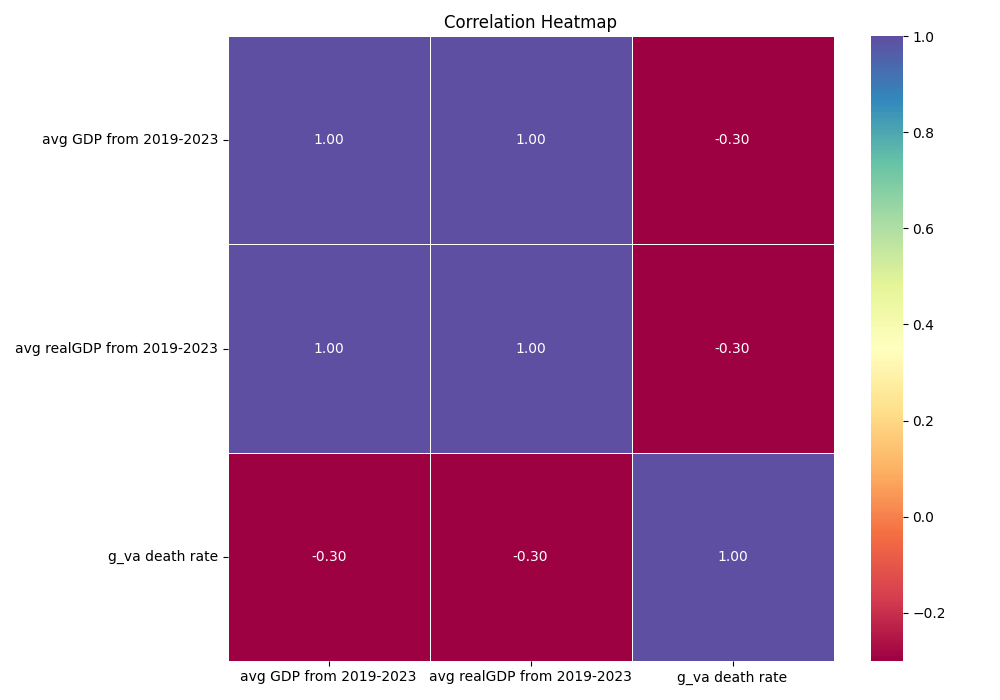
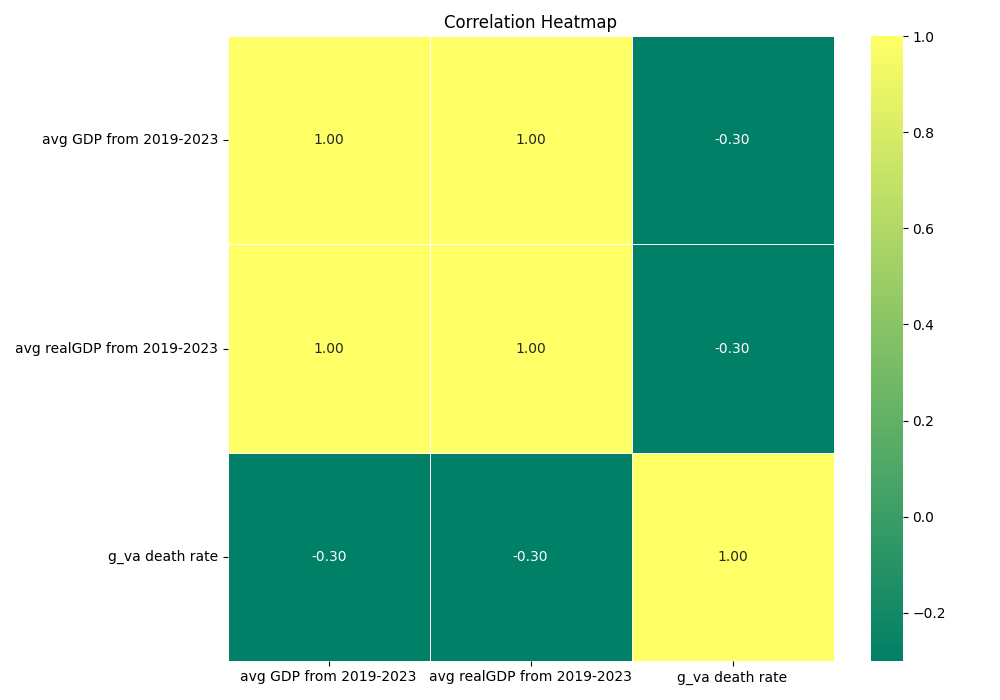
more ml more plots

diff --git a/ml_methods/ml_attempt.py b/ml_methods/ml_attempt.py
@@ -4,6 +4,9 @@ import pandas as pd
 from sklearn.model_selection import train_test_split
 import matplotlib.pyplot as plt
 import numpy as np
+from sklearn.metrics import r2_score, mean_absolute_error
+from sklearn.model_selection import cross_val_score
+from sklearn.model_selection import GridSearchCV
 
 df = pd.read_csv('eda/final_df.csv')
 
@@ -12,12 +15,19 @@ pd.set_option('display.max_columns', None)
 
 # print(df.head())
 
+
 def get_importance(df, model, color='purple'):
+
     X = df.drop(['g_va death rate'], axis=1)
-    y = df[['g_va death rate']]
+    y = df['g_va death rate']
+
 
     column_names_list = df.columns.tolist()
     column_names_list.pop()
+
+    scores = cross_val_score(model, X, y, cv=5, scoring='r2')
+    print(f"Mean r^2 score accross 5 folds for {model}: {np.mean(scores):.3f}")
+    print(f"All fold scores for {model}: {scores}\n")
 
     model.fit(X, y)
 
@@ -25,6 +35,8 @@ def get_importance(df, model, color='purple'):
 
     for i, v in enumerate(importance):
         print(f'{column_names_list[i]}, Score: {v:.5f}')
+    
+
     plt.bar([x for x in range(len(importance))], importance, color=color)
     plt.xticks([x for x in range(len(importance))], column_names_list, rotation=45, ha='right')
     plt.title(str(model) + ' Feature Importance')
@@ -33,29 +45,46 @@ def get_importance(df, model, color='purple'):
     plt.tight_layout()
     plt.show()
 
-get_importance(df, DecisionTreeRegressor())
-get_importance(df, RandomForestRegressor(), color='teal')
+get_importance(df, DecisionTreeRegressor(random_state=42))
+get_importance(df, RandomForestRegressor(random_state=42), color='teal')
+get_importance(df, GradientBoostingRegressor(random_state=42), color='pink')
 
 '''
-Decision Tree
+Mean r^2 score accross 5 folds for DecisionTreeRegressor(random_state=42): 0.236
+All fold scores for DecisionTreeRegressor(random_state=42): [ 0.23092503  0.77619647  0.7652932   0.29895134 -0.89273118]
 
-Fams Below Pov %, Score: 0.03006
-Ppl (<150% Of Pov) %, Score: 0.04787
-Ppl (Below Poverty) %, Score: 0.00034
-% At Least Bachelor's Degree, Score: 0.47104
-Median Fam Income (Scaled), Score: 0.02941
-Median Household Income (Scaled), Score: 0.20511
-Vast Majority Income (Scaled), Score: 0.00161
-Language Isolation %, Score: 0.21456
+Fams Below Pov %, Score: 0.07457
+Ppl (<150% Of Pov) %, Score: 0.00374
+Ppl (Below Poverty) %, Score: 0.04395
+% At Least Bachelor's Degree, Score: 0.47181
+Median Fam Income (Scaled), Score: 0.02827
+Median Household Income (Scaled), Score: 0.16602
+Vast Majority Income (Scaled), Score: 0.00103
+Language Isolation %, Score: 0.21060
 
-Random Forest
 
-Fams Below Pov %, Score: 0.05227
-Ppl (<150% Of Pov) %, Score: 0.02943
-Ppl (Below Poverty) %, Score: 0.02996
-% At Least Bachelor's Degree, Score: 0.32617
-Median Fam Income (Scaled), Score: 0.15243
-Median Household Income (Scaled), Score: 0.12030
-Vast Majority Income (Scaled), Score: 0.13241
-Language Isolation %, Score: 0.15703
+Mean r^2 score accross 5 folds for RandomForestRegressor(random_state=42): 0.491
+All fold scores for RandomForestRegressor(random_state=42): [ 0.4201826   0.64573927  0.7237883   0.69102035 -0.02674616]
+
+Fams Below Pov %, Score: 0.05428
+Ppl (<150% Of Pov) %, Score: 0.03473
+Ppl (Below Poverty) %, Score: 0.03383
+% At Least Bachelor's Degree, Score: 0.30526
+Median Fam Income (Scaled), Score: 0.18209
+Median Household Income (Scaled), Score: 0.11751
+Vast Majority Income (Scaled), Score: 0.11447
+Language Isolation %, Score: 0.15783
+
+
+Mean r^2 score accross 5 folds for GradientBoostingRegressor(random_state=42): 0.432
+All fold scores for GradientBoostingRegressor(random_state=42): [ 0.2980692   0.6816932   0.73679643  0.70031228 -0.25924952]
+
+Fams Below Pov %, Score: 0.03618
+Ppl (<150% Of Pov) %, Score: 0.03724
+Ppl (Below Poverty) %, Score: 0.02374
+% At Least Bachelor's Degree, Score: 0.39926
+Median Fam Income (Scaled), Score: 0.10813
+Median Household Income (Scaled), Score: 0.13981
+Vast Majority Income (Scaled), Score: 0.06105
+Language Isolation %, Score: 0.19459
 '''

diff --git a/data_vis/corr.py b/data_vis/corr.py
@@ -10,7 +10,7 @@ x2 = pd.read_csv('eda/x2.csv')
 x3 = pd.read_csv('eda/x3.csv')
 
 
-def make_heatmap(x, cmap='Spectral'):
+def make_heatmap(x, cmap='summer'):
     matrix = x.corr()
     plt.figure(figsize=(10,7))
     sns.heatmap(matrix, annot=True, cmap=cmap, fmt=".2f", linewidths=0.5)
